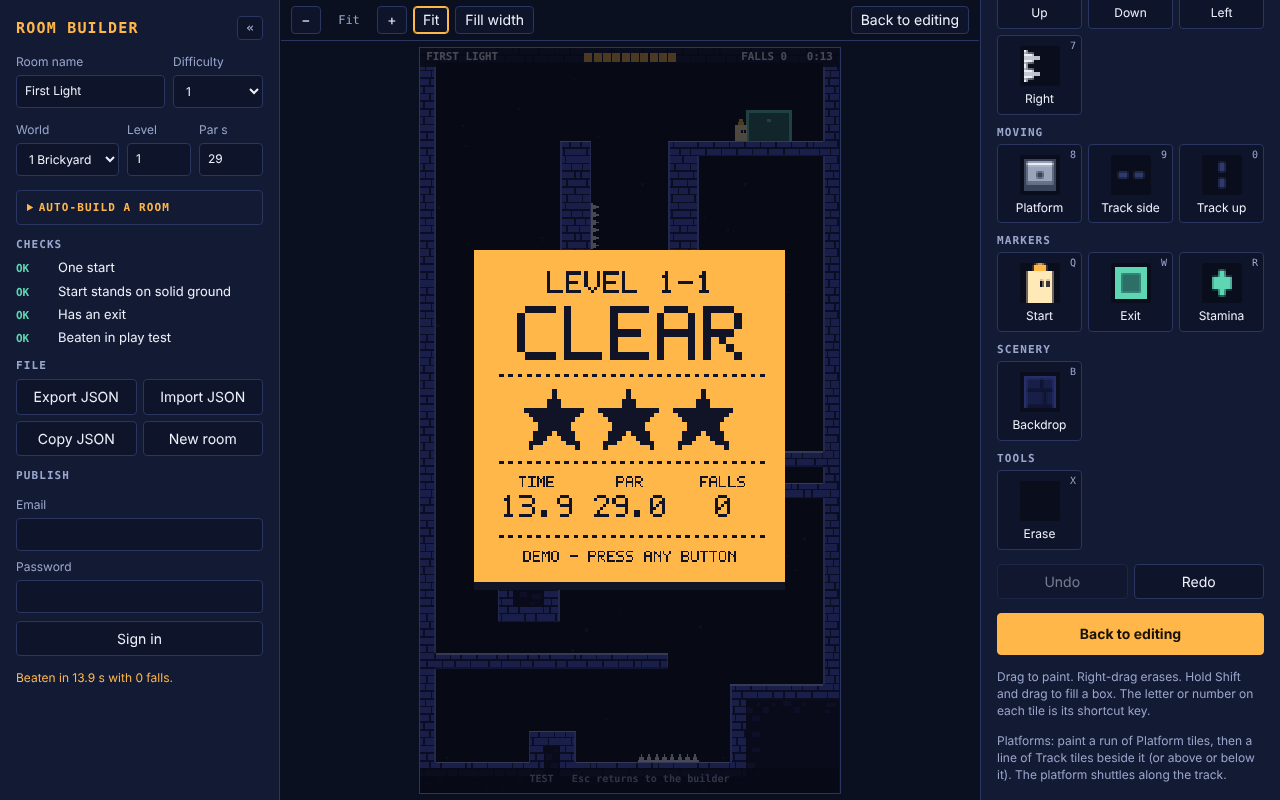
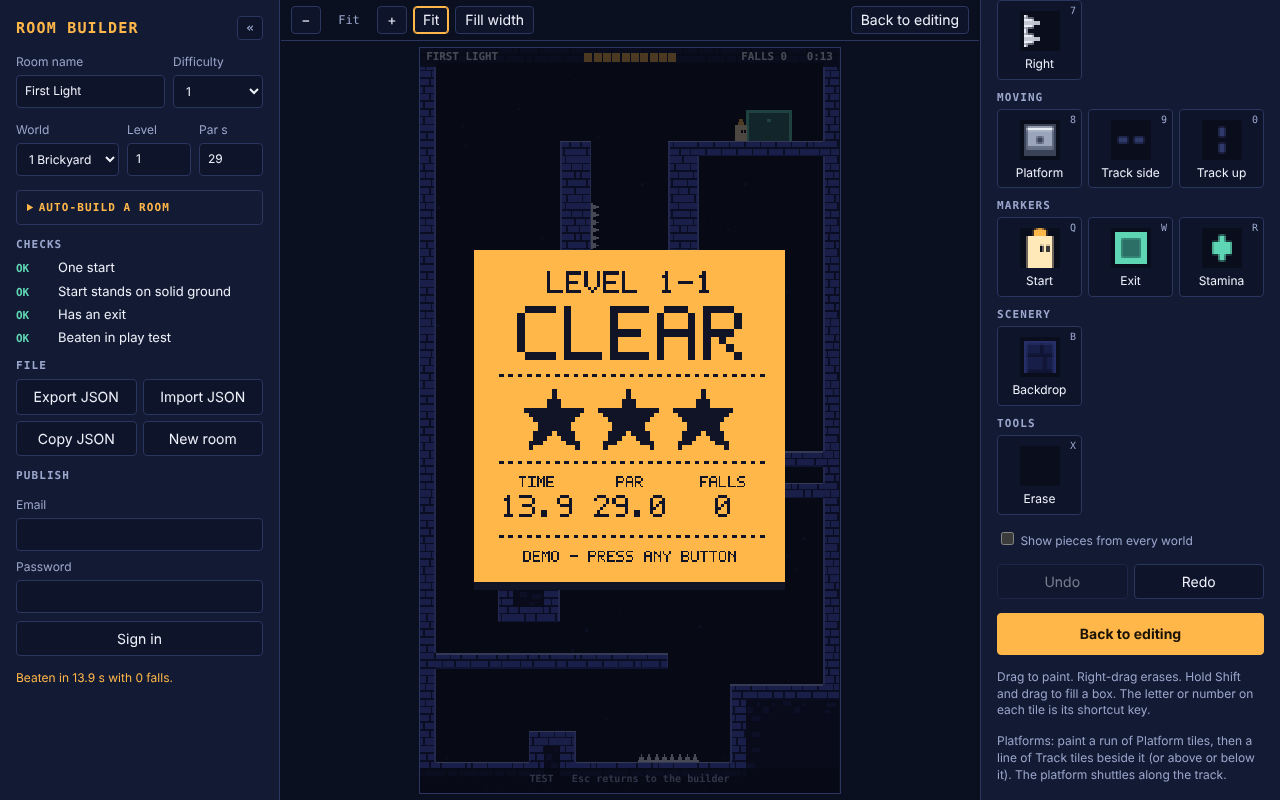
Builder pieces and auto-build are grouped by world
The palette shows the common pieces plus the room's world's own, drawn
in that world's look. Auto-build offers and places only that world's
pieces. Ice is now Icehouse only. A note appears when a room uses a
piece from another world.

Claude-Session: https://claude.ai/code/session_01NZkKt2otoYDRNuWNpVBUzY

diff --git a/builder/index.html b/builder/index.html
@@ -176,6 +176,7 @@
   <aside id="paint">
     <div class="rail-head"><button class="rail-toggle" data-rail="paint" title="Hide or show this panel ( ] )" aria-label="Hide or show the paint panel">&raquo;</button><h1>Paint</h1></div>
     <div id="palette"></div>
+    <label class="hint"><input type="checkbox" id="allp"> Show pieces from every world</label>
     <div class="row"><button id="undo">Undo</button><button id="redo">Redo</button></div>
     <button id="play" class="primary">Play test</button>
     <p class="hint">Drag to paint. Right-drag erases. Hold Shift and drag to fill a box. The letter or number on each tile is its shortcut key.</p>
@@ -317,9 +318,13 @@
   // A room says which world and level it is with two plain fields in its data: world (1, 2, ...) and level (1, 2, ...).
   // Rooms without them belong to world 1 and go after the numbered levels.
   var WORLDS = [
-    { id: 1, name: 'Brickyard', theme: 'brick' },
-    { id: 2, name: 'Icehouse',  theme: 'frost' }
+    { id: 1, name: 'Brickyard', theme: 'brick', tiles: [], elements: [] },
+    { id: 2, name: 'Icehouse',  theme: 'frost', tiles: ['I'], elements: ['ice'] }
   ];
+  // Pieces that belong to one world only. tiles are level characters, elements are the auto-builder's piece names.
+  // Everything not listed by any world is common and can be used anywhere. A new world lists its own pieces here.
+  function tileWorld(ch) { for (var i = 0; i < WORLDS.length; i++) if (WORLDS[i].tiles.indexOf(ch) >= 0) return WORLDS[i].id; return 0; }
+  function elementWorld(name) { for (var i = 0; i < WORLDS.length; i++) if (WORLDS[i].elements.indexOf(name) >= 0) return WORLDS[i].id; return 0; }
   var THEMES = {
     brick: { tiles: 'brick', bg: '#0a0d1c', dot: '#1b2145', back: ['#171e47', '#0f1432', '#262f68'], accent: '#ffb74a', accentLo: '#c47f24' },
     frost: { tiles: 'frost', bg: '#07121d', dot: '#16324a', back: ['#12283c', '#0b1a29', '#1f4460'], accent: '#9fe3ff', accentLo: '#5aa3c4' }
@@ -346,7 +351,8 @@
     var SP = EL.spikes ? Math.max(1, opts.spikes | 0) : 0;                               // 0 none, 1 some, 2 lots
     var styles = opts.styles && opts.styles.length ? opts.styles : (opts.style && opts.style !== 'mixed' ? [opts.style] : []);
     var SHAPE = opts.shape !== false;
-    var WORLD = opts.world | 0, ICY = WORLD === 2 ? 4 : 1;                                // a world leans on its own pieces                                                    // organic shaping on by default
+    var WORLD = opts.world | 0, ICY = WORLD === 2 ? 4 : 1;                                // a world leans on its own pieces
+    if (WORLD && WORLD !== 2 && EL.ice) { EL = Object.assign({}, EL); EL.ice = false; }   // and never borrows another world's (ice is Icehouse only)                                                    // organic shaping on by default
     function likes(st) { return styles.length && styles.length < 3 && styles.indexOf(st) >= 0; }
     function rnd() { s = (s + 0x6D2B79F5) >>> 0; var t = Math.imul(s ^ (s >>> 15), 1 | s); t = (t + Math.imul(t ^ (t >>> 7), 61 | t)) ^ t; return ((t ^ (t >>> 14)) >>> 0) / 4294967296; }
     function ri(a, b) { return a + Math.floor(rnd() * (b - a + 1)); }
@@ -705,6 +711,15 @@
       var t = document.createElement('span'); t.textContent = k.text;
       li.appendChild(m); li.appendChild(t); ul.appendChild(li);
     });
+    // a heads-up (not a blocker) when the room uses a piece that belongs to a different world
+    var odd = {}, names = [], r, c;
+    for (r = 0; r < ROWS; r++) for (c = 0; c < COLS; c++) { var tw = tileWorld(tiles[r][c]); if (tw && tw !== (room.world || 1)) odd[tw] = 1; }
+    for (var ow in odd) names.push(WORLDS[ow - 1].name);
+    if (names.length) {
+      var li = document.createElement('li'), m = document.createElement('span'), t = document.createElement('span');
+      m.className = 'mark'; m.textContent = 'NOTE'; m.style.color = 'var(--accent)'; t.textContent = 'Uses pieces from ' + names.join(' and ');
+      li.appendChild(m); li.appendChild(t); ul.appendChild(li);
+    }
     $('undo').disabled = !undoStack.length; $('redo').disabled = !redoStack.length;
     draw();
   }
@@ -751,11 +766,17 @@
   canvas.addEventListener('pointerleave', function () { hover = null; if (!stroke) { $('coords').textContent = ''; draw(); } });
 
   // ---- palette ----
+  // The palette shows the pieces of the room's world: the common ones plus that world's own. Other worlds' pieces are hidden.
+  function allowed(ch) { var w = tileWorld(ch); return !w || w === (room.world || 1) || $('allp').checked; }
   function buildPalette() {
-    GROUPS.forEach(function (grp) {
+    var wd = WORLDS[(room.world || 1) - 1];
+    $('palette').textContent = '';
+    GROUPS.forEach(function (grp, gi) {
+      var list = grp[1].filter(function (t) { return allowed(t[0]); });
+      if (!list.length) return;
       var box = document.createElement('div'); box.className = 'group';
-      var h = document.createElement('h2'); h.textContent = grp[0]; box.appendChild(h);
-      grp[1].forEach(function (t) {
+      var h = document.createElement('h2'); h.textContent = gi === 0 ? wd.name + ' terrain' : grp[0]; box.appendChild(h);
+      list.forEach(function (t) {
         var b = document.createElement('button'); b.type = 'button'; b.dataset.ch = t[0]; b.title = t[1] + ' (' + t[2] + ')';
         var ic = document.createElement('canvas'); ic.width = 20; ic.height = 20;
         var x = ic.getContext('2d'); x.fillStyle = C.bg; x.fillRect(0, 0, 20, 20);
@@ -767,6 +788,12 @@
         box.appendChild(b);
       });
       $('palette').appendChild(box);
+    });
+    pick(allowed(brush) ? brush : '#');
+    // auto-build offers only this world's pieces too
+    Array.prototype.forEach.call($('g-els').children, function (b) {
+      var w = elementWorld(b.dataset.v), ok = !w || w === wd.id;
+      if (b.hidden === ok) { b.hidden = !ok; b.setAttribute('aria-pressed', ok ? 'true' : 'false'); }
     });
   }
   function pick(ch) {
@@ -871,8 +898,10 @@
   function syncMeta() {
     $('world').value = String(room.world || 1); $('level').value = room.level > 0 ? room.level : ''; $('par').value = room.par > 0 ? room.par : '';
     var th = themeOf(room); setTileTheme(th); C.bg = th.bg;
+    buildPalette();
   }
-  $('world').addEventListener('change', function () { room.world = +this.value; syncMeta(); saveDraft(); draw(); });
+  $('allp').addEventListener('change', buildPalette);
+  $('world').addEventListener('change', function () { room.world = +this.value; syncMeta(); saveDraft(); refresh(); });
   $('level').addEventListener('input', function () { room.level = Math.max(0, parseInt(this.value, 10) || 0); saveDraft(); });
   $('par').addEventListener('input', function () { room.par = Math.max(0, parseInt(this.value, 10) || 0); saveDraft(); });
   window.addEventListener('keydown', function (e) {
@@ -883,7 +912,7 @@
     if ((e.metaKey || e.ctrlKey) && e.key.toLowerCase() === 'z') { e.preventDefault(); if (e.shiftKey) redo(); else undo(); return; }
     if (e.metaKey || e.ctrlKey || e.altKey) return;
     var key = e.key.toUpperCase();
-    for (var i = 0; i < TILES.length; i++) if (TILES[i][2] === key) { pick(TILES[i][0]); break; }
+    for (var i = 0; i < TILES.length; i++) if (TILES[i][2] === key && allowed(TILES[i][0])) { pick(TILES[i][0]); break; }
   });
   window.addEventListener('resize', fit);
 
@@ -1058,7 +1087,7 @@
   showPub();
 
   // ---- start: last draft if there is one, otherwise the starter room ----
-  buildPalette(); pick('#');
+  // the palette is built by load() below, once the room (and so its world) is known
   var draft = null;
   try { draft = JSON.parse(localStorage.getItem(DRAFT_KEY)); } catch (e) {}
   try { load(draft || JSON.parse($('starter').textContent), draft ? 'Picked up your last draft.' : ''); }

diff --git a/src/builder-template.html b/src/builder-template.html
@@ -176,6 +176,7 @@
   <aside id="paint">
     <div class="rail-head"><button class="rail-toggle" data-rail="paint" title="Hide or show this panel ( ] )" aria-label="Hide or show the paint panel">&raquo;</button><h1>Paint</h1></div>
     <div id="palette"></div>
+    <label class="hint"><input type="checkbox" id="allp"> Show pieces from every world</label>
     <div class="row"><button id="undo">Undo</button><button id="redo">Redo</button></div>
     <button id="play" class="primary">Play test</button>
     <p class="hint">Drag to paint. Right-drag erases. Hold Shift and drag to fill a box. The letter or number on each tile is its shortcut key.</p>
@@ -356,6 +357,15 @@
       var t = document.createElement('span'); t.textContent = k.text;
       li.appendChild(m); li.appendChild(t); ul.appendChild(li);
     });
+    // a heads-up (not a blocker) when the room uses a piece that belongs to a different world
+    var odd = {}, names = [], r, c;
+    for (r = 0; r < ROWS; r++) for (c = 0; c < COLS; c++) { var tw = tileWorld(tiles[r][c]); if (tw && tw !== (room.world || 1)) odd[tw] = 1; }
+    for (var ow in odd) names.push(WORLDS[ow - 1].name);
+    if (names.length) {
+      var li = document.createElement('li'), m = document.createElement('span'), t = document.createElement('span');
+      m.className = 'mark'; m.textContent = 'NOTE'; m.style.color = 'var(--accent)'; t.textContent = 'Uses pieces from ' + names.join(' and ');
+      li.appendChild(m); li.appendChild(t); ul.appendChild(li);
+    }
     $('undo').disabled = !undoStack.length; $('redo').disabled = !redoStack.length;
     draw();
   }
@@ -402,11 +412,17 @@
   canvas.addEventListener('pointerleave', function () { hover = null; if (!stroke) { $('coords').textContent = ''; draw(); } });
 
   // ---- palette ----
+  // The palette shows the pieces of the room's world: the common ones plus that world's own. Other worlds' pieces are hidden.
+  function allowed(ch) { var w = tileWorld(ch); return !w || w === (room.world || 1) || $('allp').checked; }
   function buildPalette() {
-    GROUPS.forEach(function (grp) {
+    var wd = WORLDS[(room.world || 1) - 1];
+    $('palette').textContent = '';
+    GROUPS.forEach(function (grp, gi) {
+      var list = grp[1].filter(function (t) { return allowed(t[0]); });
+      if (!list.length) return;
       var box = document.createElement('div'); box.className = 'group';
-      var h = document.createElement('h2'); h.textContent = grp[0]; box.appendChild(h);
-      grp[1].forEach(function (t) {
+      var h = document.createElement('h2'); h.textContent = gi === 0 ? wd.name + ' terrain' : grp[0]; box.appendChild(h);
+      list.forEach(function (t) {
         var b = document.createElement('button'); b.type = 'button'; b.dataset.ch = t[0]; b.title = t[1] + ' (' + t[2] + ')';
         var ic = document.createElement('canvas'); ic.width = 20; ic.height = 20;
         var x = ic.getContext('2d'); x.fillStyle = C.bg; x.fillRect(0, 0, 20, 20);
@@ -418,6 +434,12 @@
         box.appendChild(b);
       });
       $('palette').appendChild(box);
+    });
+    pick(allowed(brush) ? brush : '#');
+    // auto-build offers only this world's pieces too
+    Array.prototype.forEach.call($('g-els').children, function (b) {
+      var w = elementWorld(b.dataset.v), ok = !w || w === wd.id;
+      if (b.hidden === ok) { b.hidden = !ok; b.setAttribute('aria-pressed', ok ? 'true' : 'false'); }
     });
   }
   function pick(ch) {
@@ -522,8 +544,10 @@
   function syncMeta() {
     $('world').value = String(room.world || 1); $('level').value = room.level > 0 ? room.level : ''; $('par').value = room.par > 0 ? room.par : '';
     var th = themeOf(room); setTileTheme(th); C.bg = th.bg;
+    buildPalette();
   }
-  $('world').addEventListener('change', function () { room.world = +this.value; syncMeta(); saveDraft(); draw(); });
+  $('allp').addEventListener('change', buildPalette);
+  $('world').addEventListener('change', function () { room.world = +this.value; syncMeta(); saveDraft(); refresh(); });
   $('level').addEventListener('input', function () { room.level = Math.max(0, parseInt(this.value, 10) || 0); saveDraft(); });
   $('par').addEventListener('input', function () { room.par = Math.max(0, parseInt(this.value, 10) || 0); saveDraft(); });
   window.addEventListener('keydown', function (e) {
@@ -534,7 +558,7 @@
     if ((e.metaKey || e.ctrlKey) && e.key.toLowerCase() === 'z') { e.preventDefault(); if (e.shiftKey) redo(); else undo(); return; }
     if (e.metaKey || e.ctrlKey || e.altKey) return;
     var key = e.key.toUpperCase();
-    for (var i = 0; i < TILES.length; i++) if (TILES[i][2] === key) { pick(TILES[i][0]); break; }
+    for (var i = 0; i < TILES.length; i++) if (TILES[i][2] === key && allowed(TILES[i][0])) { pick(TILES[i][0]); break; }
   });
   window.addEventListener('resize', fit);
 
@@ -709,7 +733,7 @@
   showPub();
 
   // ---- start: last draft if there is one, otherwise the starter room ----
-  buildPalette(); pick('#');
+  // the palette is built by load() below, once the room (and so its world) is known
   var draft = null;
   try { draft = JSON.parse(localStorage.getItem(DRAFT_KEY)); } catch (e) {}
   try { load(draft || JSON.parse($('starter').textContent), draft ? 'Picked up your last draft.' : ''); }

diff --git a/tests/worldtest.js b/tests/worldtest.js
@@ -1,0 +1,23 @@
+// The builder shows and auto-builds only the pieces of the room's world.
+const { chromium } = require('playwright');
+(async () => {
+  const b = await chromium.launch({ executablePath: '/opt/pw-browsers/chromium' }).catch(() => chromium.launch());
+  const p = await b.newPage({ viewport: { width: 1400, height: 900 } });
+  const errs = []; p.on('pageerror', e => errs.push(String(e)));
+  await p.goto('file:///home/claude/climber/builder/index.html'); await p.waitForTimeout(400);
+  const pal = () => p.evaluate(() => [...document.querySelectorAll('#palette button')].map(b => b.dataset.ch).join(''));
+  const chips = () => p.evaluate(() => [...document.querySelectorAll('#g-els button')].filter(b => !b.hidden).map(b => b.dataset.v).join(' '));
+  const count = (ch) => p.evaluate((ch) => JSON.parse(localStorage.getItem('climber.builder.draft.v1')).tiles.join('').split(ch).length - 1, ch);
+  console.log('world 1 palette:', await pal(), '| auto pieces:', await chips());
+  let ice = 0; for (let i = 0; i < 6; i++) { await p.evaluate(() => document.getElementById('g-go').click()); ice += await count('I'); }
+  console.log('six world 1 auto rooms, ice tiles:', ice);
+  await p.selectOption('#world', '2'); await p.waitForTimeout(100);
+  console.log('world 2 palette:', await pal(), '| auto pieces:', await chips(), '| heading:', await p.evaluate(() => document.querySelector('#palette h2').textContent));
+  ice = 0; for (let i = 0; i < 6; i++) { await p.evaluate(() => document.getElementById('g-go').click()); ice += await count('I'); }
+  console.log('six world 2 auto rooms, ice tiles:', ice, '| world saved:', await p.evaluate(() => JSON.parse(localStorage.getItem('climber.builder.draft.v1')).world));
+  await p.screenshot({ path: __dirname + '/world-2.png' });
+  await p.selectOption('#world', '1'); await p.waitForTimeout(100);
+  console.log('back to world 1 with an ice room, note:', await p.evaluate(() => [...document.querySelectorAll('#checks li')].map(l => l.textContent).filter(t => t.startsWith('NOTE')).join('')));
+  await p.check('#allp'); console.log('show all:', await pal(), 'errors', JSON.stringify(errs));
+  await b.close();
+})();

diff --git a/index.html b/index.html
@@ -152,9 +152,13 @@
   // A room says which world and level it is with two plain fields in its data: world (1, 2, ...) and level (1, 2, ...).
   // Rooms without them belong to world 1 and go after the numbered levels.
   var WORLDS = [
-    { id: 1, name: 'Brickyard', theme: 'brick' },
-    { id: 2, name: 'Icehouse',  theme: 'frost' }
+    { id: 1, name: 'Brickyard', theme: 'brick', tiles: [], elements: [] },
+    { id: 2, name: 'Icehouse',  theme: 'frost', tiles: ['I'], elements: ['ice'] }
   ];
+  // Pieces that belong to one world only. tiles are level characters, elements are the auto-builder's piece names.
+  // Everything not listed by any world is common and can be used anywhere. A new world lists its own pieces here.
+  function tileWorld(ch) { for (var i = 0; i < WORLDS.length; i++) if (WORLDS[i].tiles.indexOf(ch) >= 0) return WORLDS[i].id; return 0; }
+  function elementWorld(name) { for (var i = 0; i < WORLDS.length; i++) if (WORLDS[i].elements.indexOf(name) >= 0) return WORLDS[i].id; return 0; }
   var THEMES = {
     brick: { tiles: 'brick', bg: '#0a0d1c', dot: '#1b2145', back: ['#171e47', '#0f1432', '#262f68'], accent: '#ffb74a', accentLo: '#c47f24' },
     frost: { tiles: 'frost', bg: '#07121d', dot: '#16324a', back: ['#12283c', '#0b1a29', '#1f4460'], accent: '#9fe3ff', accentLo: '#5aa3c4' }

diff --git a/src/shared-worlds.js b/src/shared-worlds.js
@@ -2,9 +2,13 @@
   // A room says which world and level it is with two plain fields in its data: world (1, 2, ...) and level (1, 2, ...).
   // Rooms without them belong to world 1 and go after the numbered levels.
   var WORLDS = [
-    { id: 1, name: 'Brickyard', theme: 'brick' },
-    { id: 2, name: 'Icehouse',  theme: 'frost' }
+    { id: 1, name: 'Brickyard', theme: 'brick', tiles: [], elements: [] },
+    { id: 2, name: 'Icehouse',  theme: 'frost', tiles: ['I'], elements: ['ice'] }
   ];
+  // Pieces that belong to one world only. tiles are level characters, elements are the auto-builder's piece names.
+  // Everything not listed by any world is common and can be used anywhere. A new world lists its own pieces here.
+  function tileWorld(ch) { for (var i = 0; i < WORLDS.length; i++) if (WORLDS[i].tiles.indexOf(ch) >= 0) return WORLDS[i].id; return 0; }
+  function elementWorld(name) { for (var i = 0; i < WORLDS.length; i++) if (WORLDS[i].elements.indexOf(name) >= 0) return WORLDS[i].id; return 0; }
   var THEMES = {
     brick: { tiles: 'brick', bg: '#0a0d1c', dot: '#1b2145', back: ['#171e47', '#0f1432', '#262f68'], accent: '#ffb74a', accentLo: '#c47f24' },
     frost: { tiles: 'frost', bg: '#07121d', dot: '#16324a', back: ['#12283c', '#0b1a29', '#1f4460'], accent: '#9fe3ff', accentLo: '#5aa3c4' }

diff --git a/src/gen.js b/src/gen.js
@@ -13,7 +13,8 @@
     var SP = EL.spikes ? Math.max(1, opts.spikes | 0) : 0;                               // 0 none, 1 some, 2 lots
     var styles = opts.styles && opts.styles.length ? opts.styles : (opts.style && opts.style !== 'mixed' ? [opts.style] : []);
     var SHAPE = opts.shape !== false;
-    var WORLD = opts.world | 0, ICY = WORLD === 2 ? 4 : 1;                                // a world leans on its own pieces                                                    // organic shaping on by default
+    var WORLD = opts.world | 0, ICY = WORLD === 2 ? 4 : 1;                                // a world leans on its own pieces
+    if (WORLD && WORLD !== 2 && EL.ice) { EL = Object.assign({}, EL); EL.ice = false; }   // and never borrows another world's (ice is Icehouse only)                                                    // organic shaping on by default
     function likes(st) { return styles.length && styles.length < 3 && styles.indexOf(st) >= 0; }
     function rnd() { s = (s + 0x6D2B79F5) >>> 0; var t = Math.imul(s ^ (s >>> 15), 1 | s); t = (t + Math.imul(t ^ (t >>> 7), 61 | t)) ^ t; return ((t ^ (t >>> 14)) >>> 0) / 4294967296; }
     function ri(a, b) { return a + Math.floor(rnd() * (b - a + 1)); }

diff --git a/CLAUDE.md b/CLAUDE.md
@@ -22,6 +22,7 @@ A single-screen precision platformer for a wall-mounted Android display (the "fr
 - The idle demo loops random built-in levels by replaying the auto-player's recorded inputs (`src/starter-demos.json`, also written by `gentest.js 0`). The replay depends on physics being deterministic; after any physics or level change, re-record (build, `gentest.js 0`, build) and run `tests/demotest.js`.
 - Stamina is one meter (`P.stamina` 110): climbing drains it, a dash costs `P.dashCost` (60, so one dash per full meter), standing on anything refills it, and the `o` pickup refills it in mid-air. Levels must be beatable without pickups. The hand-made first room needs the full 110 for its long climbs, so do not lower it without checking that room and Dan's published levels.
 - Controllers: settings are saved per pad in `climber.pad.v2` as `layout` (which raw input is which physical button, learned by the setup screen when the browser does not report a standard pad) and `act` (what each button does, editable in Settings). Inputs can come from any connected device or as key presses.
+- Pieces are grouped by world: each entry in `WORLDS` lists the `tiles` and auto-builder `elements` that belong only to that world (ice is Icehouse only); everything else is common. The builder palette and the auto-build options show only the room's world, and `gen.js` never places another world's pieces. A new world's pieces go in its `WORLDS` entry. `tests/worldtest.js` covers this.
 - Rooms are data (level format 1: a grid of tile characters). The game never hard-codes a room. New tiles must stay backward compatible.
 - Art, levels, names and sounds are original. Nothing copied from other games.
 - The frame is slow at repainting its 4K screen. The game draws to a 270 x 480 buffer and only copies changed pieces to the screen. Mark dirty rectangles for anything that moves. No full-screen redraws per frame, no flashing or strobing.
